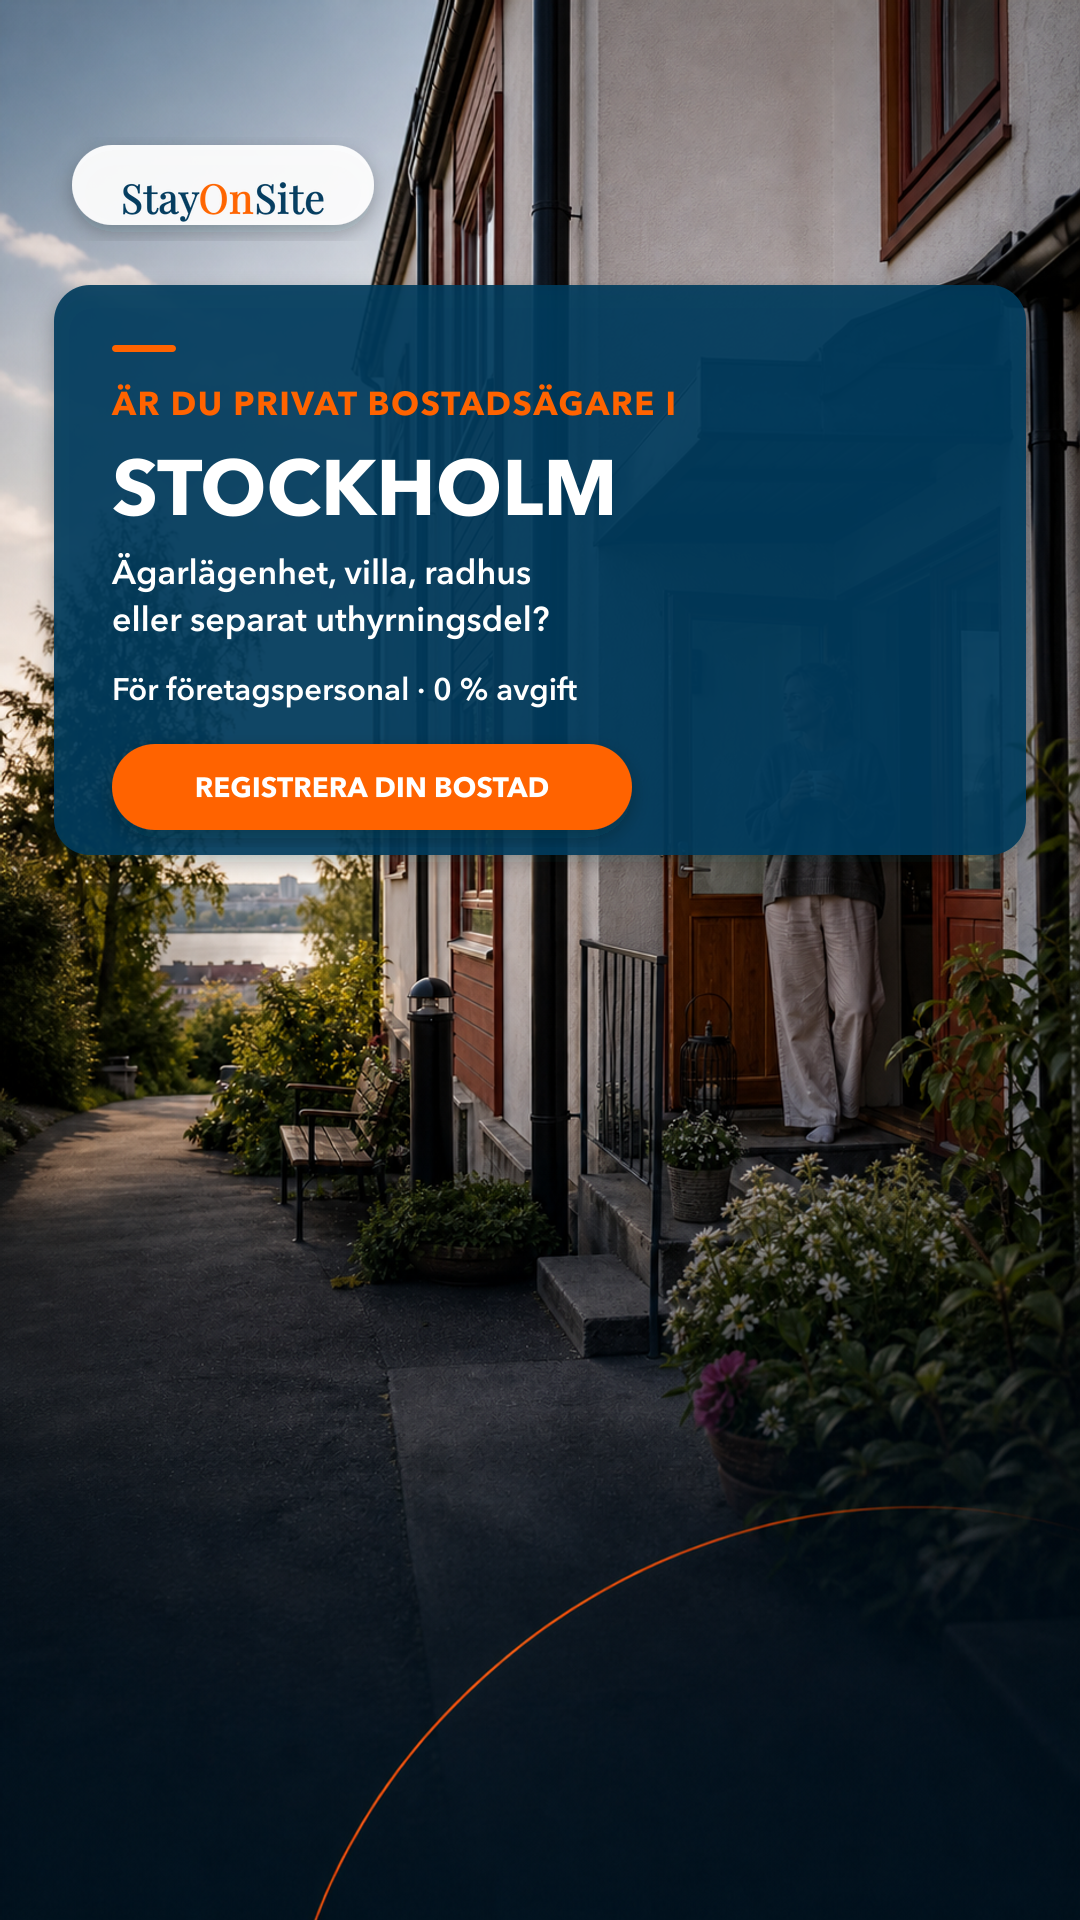
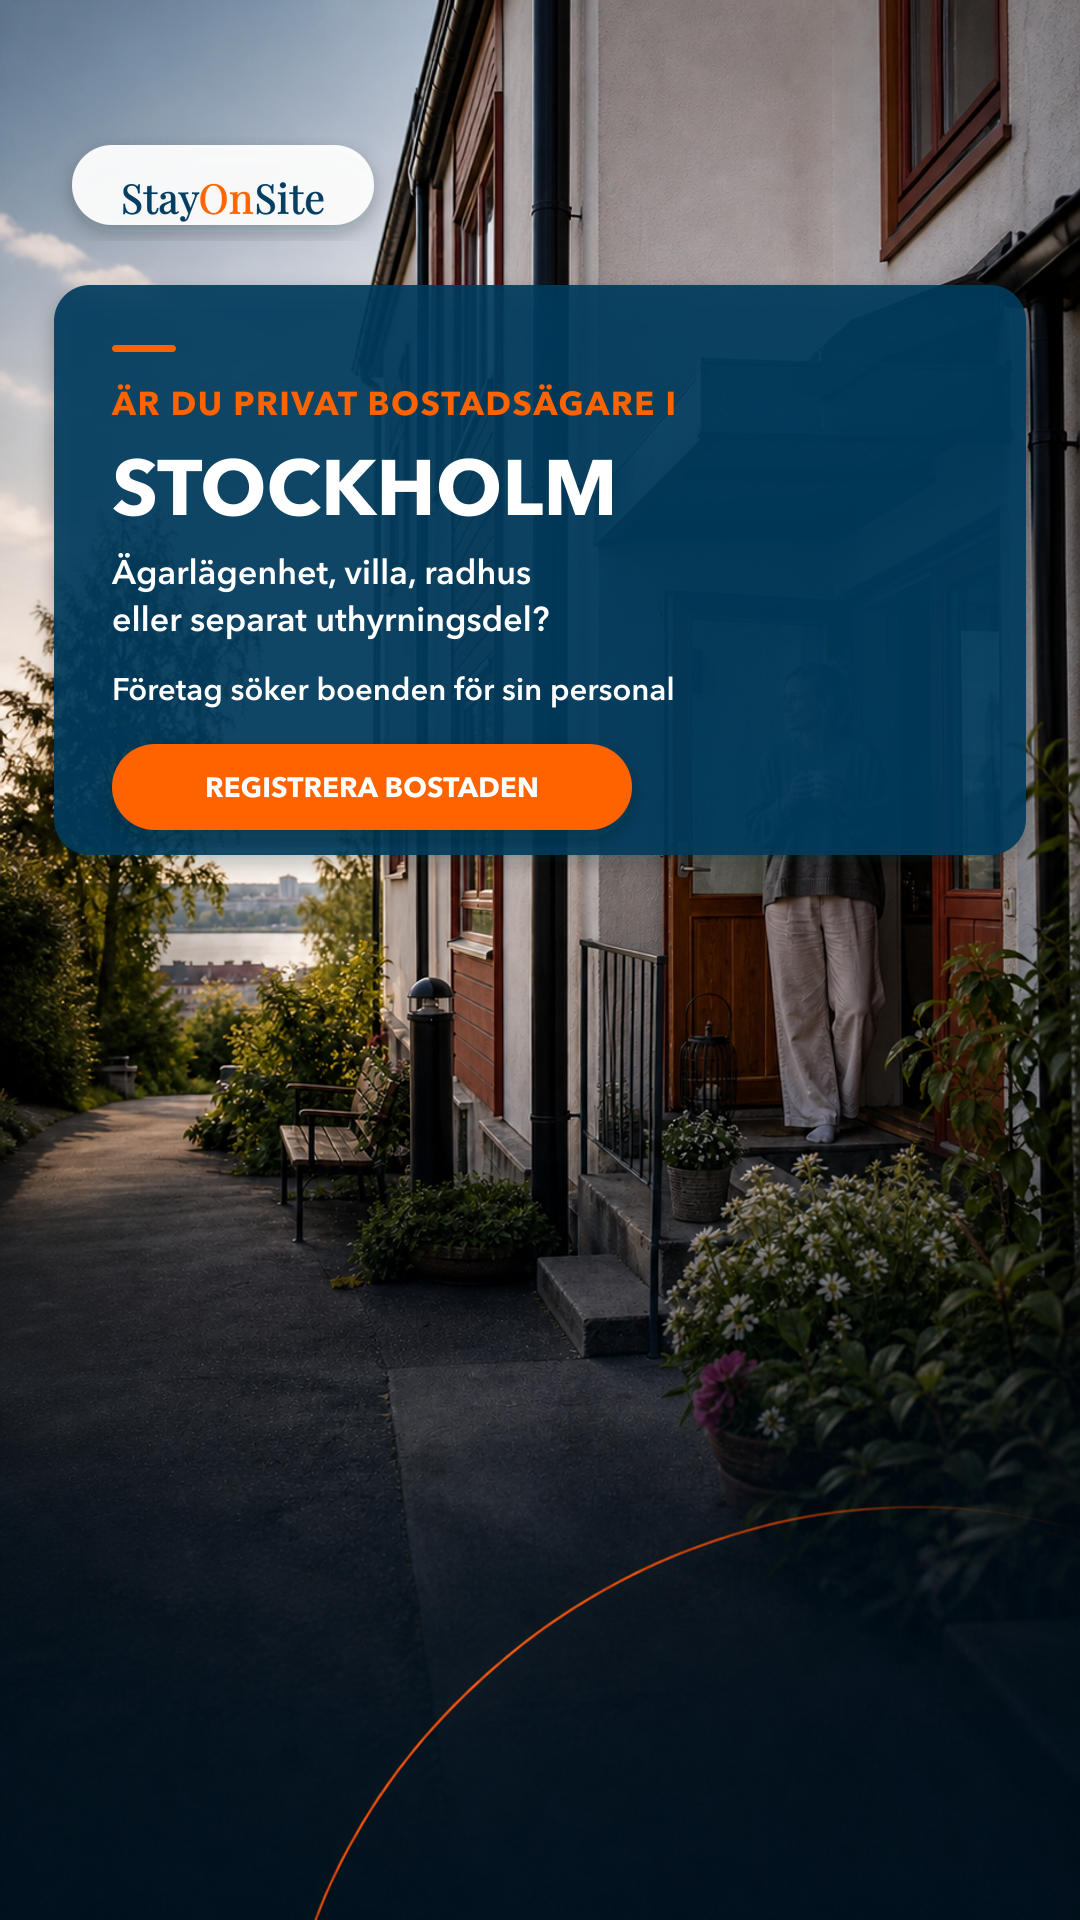
feat(ads): route homeowner campaigns to property intake

Changed region(s): [[0.1528, 0.3438, 0.6111, 0.375], [0.1833, 0.4062, 0.5194, 0.4375]]

diff --git a/app/api/crm/property-intake/route.ts b/app/api/crm/property-intake/route.ts
@@ -12,6 +12,7 @@ import { R2_BUCKET, r2 } from "@/lib/crm/r2";
 import { outboxMessages, propertyImages } from "@/lib/crm/schema";
 import { ensureShareLink } from "@/lib/crm/share-links";
 import { intakeConfirmSms } from "@/lib/crm/sms-templates";
+import { sendMetaLeadEvent } from "@/lib/meta-conversions";
 
 export const runtime = "nodejs";
 export const dynamic = "force-dynamic";
@@ -227,6 +228,36 @@ export async function POST(req: NextRequest) {
         console.error("Intake confirmation SMS queue failed", error);
       }
     }
+
+    // Skicka samma Lead-händelse som webbläsaren med identiskt event-id så att
+    // Meta kan deduplicera Pixel och Conversions API. Mätningen får aldrig
+    // påverka själva bostadsregistreringen.
+    const forwarded = req.headers.get("x-forwarded-for");
+    const ip = forwarded ? forwarded.split(",")[0]?.trim() : undefined;
+    const metaTracking = parsed.data.tracking?.consent
+      ? {
+          consent: true as const,
+          eventId: parsed.data.tracking.eventId,
+          eventSourceUrl: parsed.data.tracking.eventSourceUrl,
+          fbc: parsed.data.tracking.fbc,
+          fbp: parsed.data.tracking.fbp,
+        }
+      : undefined;
+
+    await sendMetaLeadEvent(
+      {
+        formType: "property-intake",
+        fields: {
+          name: parsed.data.ownerName,
+          email: parsed.data.ownerEmail ?? "",
+          phone: parsed.data.ownerPhone,
+          city: parsed.data.city,
+          postalCode: parsed.data.postalCode,
+        },
+        tracking: metaTracking,
+      },
+      { ip, userAgent: req.headers.get("user-agent") ?? undefined },
+    ).catch((error) => console.error("Property intake Meta CAPI event failed", error));
 
     return NextResponse.json({
       success: true,

diff --git a/src/components/homeowner/PropertyIntakeForm.tsx b/src/components/homeowner/PropertyIntakeForm.tsx
@@ -14,6 +14,7 @@ import { useUtmCapture } from "@/hooks/use-utm-capture";
 import { isValidEmail, isValidPhoneNumber } from "@/lib/contact";
 import { UTHYRNINGSUPPDRAG } from "@/lib/crm/avtal";
 import { compressImage } from "@/lib/image-compress";
+import { getMetaTrackingContext, trackMetaEvent } from "@/lib/meta-pixel";
 import { cn } from "@/lib/utils";
 
 type IntakeFormState = {
@@ -464,8 +465,12 @@ export function PropertyIntakeForm() {
     setIsSubmitting(true);
     setSubmitError("");
     try {
+      const tracking = getMetaTrackingContext("Lead");
       const body = new FormData();
-      body.append("payload", JSON.stringify(payload()));
+      body.append("payload", JSON.stringify({
+        ...payload(),
+        ...(tracking ? { tracking } : {}),
+      }));
       const response = await fetch("/api/crm/property-intake", { method: "POST", body });
       const result = await response.json().catch(() => null) as {
         success?: boolean;
@@ -478,6 +483,13 @@ export function PropertyIntakeForm() {
 
       if (!response.ok || !result?.success || !result.propertyId) {
         throw new Error(result?.error ?? "property_intake_failed");
+      }
+
+      if (tracking) {
+        trackMetaEvent("Lead", {
+          content_category: "homeowner",
+          content_name: "property-intake",
+        }, tracking.eventId);
       }
 
       const uploaded = await uploadImages(result.propertyId, result.agreement?.token ?? null);

diff --git a/src/lib/meta-conversions.ts b/src/lib/meta-conversions.ts
@@ -47,6 +47,10 @@ function hashedList(value?: string): string[] | undefined {
   return value ? [sha256(value)] : undefined
 }
 
+function isHomeownerForm(formType: string): boolean {
+  return formType.includes('homeowner') || formType === 'property-intake'
+}
+
 export function buildMetaLeadEvent(
   submission: MetaLeadSubmission,
   context: MetaLeadRequestContext,
@@ -84,7 +88,7 @@ export function buildMetaLeadEvent(
       ...(submission.tracking.fbp ? { fbp: submission.tracking.fbp } : {}),
     },
     custom_data: {
-      content_category: submission.formType.includes('homeowner') ? 'homeowner' : 'corporate',
+      content_category: isHomeownerForm(submission.formType) ? 'homeowner' : 'corporate',
       content_name: submission.formType,
     },
   }

diff --git a/src/lib/meta-conversions.test.ts b/src/lib/meta-conversions.test.ts
@@ -58,4 +58,29 @@ describe('buildMetaLeadEvent', () => {
       fbp: 'fb.1.123.example',
     })
   })
+
+  it('classifies the complete property intake as a homeowner lead', () => {
+    const event = buildMetaLeadEvent(
+      {
+        formType: 'property-intake',
+        fields: {
+          name: 'Testperson',
+          phone: '0701234567',
+          city: 'Kiruna',
+          postalCode: '981 31',
+        },
+        tracking: {
+          consent: true,
+          eventId: 'lead-property-intake-123',
+          eventSourceUrl: 'https://www.stayonsite.se/registrera-bostad',
+        },
+      },
+      {},
+    )
+
+    expect(event?.custom_data).toEqual({
+      content_category: 'homeowner',
+      content_name: 'property-intake',
+    })
+  })
 })

diff --git a/src/lib/crm/property-intake.ts b/src/lib/crm/property-intake.ts
@@ -110,6 +110,13 @@ export const propertyIntakeSchema = z
     startedAt: z.number().int().positive().optional().nullable(),
     website: z.string().trim().max(200).optional().nullable(),
     utmParams: z.record(z.string(), z.string()).optional().nullable(),
+    tracking: z.object({
+      consent: z.literal(true),
+      eventId: z.string().min(8).max(100),
+      eventSourceUrl: z.string().url().max(1000),
+      fbc: z.string().max(255).optional(),
+      fbp: z.string().max(255).optional(),
+    }).optional(),
     consent: z.literal(true),
   })
   .superRefine((input, ctx) => {

diff --git a/ADS-STRATEGY.md b/ADS-STRATEGY.md
@@ -14,7 +14,7 @@ Behåll ett Meta-annonskonto men dela verksamheten i två tydliga kampanjfamilje
 
 | Del | Status | Målgrupp | Konvertering | Landningssida |
 |---|---|---|---|---|
-| Bostadsägare / utbud | Aktiv nu | Privatpersoner som äger bostad | Godkänd formulärregistrering | `/lp/husagare` |
+| Bostadsägare / utbud | Aktiv nu | Privatpersoner som äger bostad | Slutförd bostadsregistrering | `/registrera-bostad` |
 | Företagskunder / efterfrågan | Förbereds, ej aktiv | Företag som behöver personalboende | Projektförfrågan | Separat företags-LP |
 
 Samma Pixel och framtida Conversions API kan användas, men kampanjer, annonser, mål och CRM-status ska hållas separata.
@@ -23,7 +23,7 @@ Samma Pixel och framtida Conversions API kan användas, men kampanjer, annonser,
 
 ### Huvudlöfte
 
-> Privat bostadsägare? Hyr ut ditt boende för företagspersonal – utan avgifter.
+> Få betalt när företag hyr ditt boende.
 
 ### Förtydligande
 
@@ -31,7 +31,7 @@ Samma Pixel och framtida Conversions API kan användas, men kampanjer, annonser,
 - Prioriterade objekt är ägarlägenheter, villor, radhus och separata uthyrningsdelar.
 - Bostadsrätter är relevanta när andrahandsuthyrningen är godkänd av föreningen eller Hyresnämnden. Formulera aldrig annonsen som att ägaren kan hoppa över ett tillstånd som krävs.
 - Bostaden ägs och registreras av en privatperson; den används som boende av företagspersonal.
-- Bostadsägaren betalar ingen avgift till StayOnSite.
+- Registreringen är kostnadsfri och inte bindande; det används som stödargument, inte som huvudbudskap.
 - Registreringen är första steget; matchning och villkor bekräftas innan avtal.
 
 ### CTA
@@ -81,29 +81,22 @@ Göteborg och Stockholm hålls i en separat uppsättning. De ger större räckvi
 ## Kreativa hypoteser
 
 1. **Privatägare → företagspersonal:** Privatpersonen äger och registrerar bostaden; företagspersonal använder den som boende.
-2. **0 % avgift:** Bostadsägaren betalar ingen avgift till StayOnSite.
+2. **Få betalt:** Bostadsägaren får betalt när ett företag hyr bostaden.
 3. **Vi söker i din stad:** Konkret efterfrågan i de städer där StayOnSite behöver fler boenden.
 
 Varje hypotes får både 4:5 och 9:16. Kör dem samtidigt; låt resultatet avgöra vinnare.
 
 ## Landningssida
 
-Rekommenderad destination är `https://www.stayonsite.se/lp/husagare` eftersom den redan:
+Rekommenderad destination är `https://www.stayonsite.se/registrera-bostad` eftersom den:
 
 - laddar Meta Pixel när miljövariabeln finns;
 - skickar `Lead` efter godkänt formulär;
 - sparar UTM-parametrar och `fbclid`;
-- skapar ett `lp-homeowner`-lead i CRM.
+- skapar bostaden direkt i CRM;
+- skickar samma `Lead` från Pixel och Conversions API med gemensamt `event_id`.
 
-Före lansering behöver första skärmen justeras så att den matchar annonsen. Nuvarande huvudbudskap “Tjäna 10 000–30 000 kr/mån” och “gratis intäktsbedömning” bör ersättas eller kompletteras med:
-
-- “Privat bostadsägare? Hyr ut för företagspersonal – utan avgifter”;
-- “Du äger bostaden. Boendet används av företagspersonal”;
-- CTA “Registrera din bostad”.
-
-Det minskar avhopp, gör erbjudandet mer trovärdigt och ger Meta renare konverteringsdata.
-
-Formuläret bör dessutom fråga efter bostadstyp och, för bostadsrätt, om tillstånd för andrahandsuthyrning redan finns. Det gör att CRM kan skilja vanliga klickleads från matchningsbara bostäder och senare ge Meta en bättre kvalitetssignal.
+Sidan är ett sexstegsformulär för kontakt, adress, bostad, utrustning, hyra och bilder. CTA och annonscopy ska därför alltid lova just **registrering av bostaden**, inte en snabb intäktsbedömning eller ett kort intresseformulär.
 
 ## Beslutsregler efter lansering
 

diff --git a/META-LAUNCH-DRAFT.md b/META-LAUNCH-DRAFT.md
@@ -1,0 +1,74 @@
+# Meta-lansering: bostadsägare
+
+**Status:** Förbereds som utkast – får inte publiceras utan Kajsas slutgodkännande  
+**Destination:** `https://www.stayonsite.se/registrera-bostad`  
+**Mål:** Slutförd bostadsregistrering (`Lead`)  
+**Målgrupp:** Privatpersoner med villa, radhus, ägarlägenhet, separat uthyrningsdel eller bostadsrätt där uthyrning är tillåten  
+**Slutkund:** Endast företag; bostaden används av deras personal
+
+## Kampanjinställningar
+
+- Kampanjmål: Leads
+- Konverteringsplats: Webbplats
+- Specialkategori: Bostäder
+- Konverteringshändelse: Lead
+- Budgetförslag: 300 kr per dag i 14 dagar
+- Struktur: en kampanj, en annonsuppsättning, fyra annonser
+- Placeringar: Advantage+
+- Budstrategi: högsta volym/lägsta kostnad
+- Status: utkast/avstängd fram till manuell publicering
+- Första geografi: Sunne, Arvika och Charlottenberg enligt aktuell efterfrågan
+
+## Gemensamt
+
+**CTA-knapp:** Registrera dig  
+**URL-parametrar:** `utm_source=meta&utm_medium=paid_social&utm_campaign=uthyrare_varmland_sep2026`
+
+Registreringen är kostnadsfri och inte bindande. Det är ett stödargument, inte huvudbudskapet. Annonserna lovar inte viss hyra, beläggning, hyrestid eller garanterad uthyrning.
+
+## Annons 1 – Villa
+
+**Namn:** Uthyrare | Villa | Få betalt  
+**Primärtext:** Har du en möblerad villa i Sunne, Arvika eller Charlottenberg? Företag söker boende åt sin personal. Du får betalt när bostaden hyrs ut. Registrera bostaden – kostnadsfritt och utan bindning.  
+**Rubrik:** Företag söker villor  
+**Beskrivning:** Registrera din bostad  
+**Bild:** `ad-assets/meta/property-types/villa/feed-1080x1350.png`  
+**Vertikal bild:** `ad-assets/meta/property-types/villa/vertical-1080x1920.png`  
+**UTM content:** `villa`
+
+## Annons 2 – Radhus
+
+**Namn:** Uthyrare | Radhus | Få betalt  
+**Primärtext:** Äger du ett möblerat radhus i Sunne, Arvika eller Charlottenberg? StayOnSite hyr bara ut till företag. Du får betalt när bostaden hyrs ut. Registreringen är kostnadsfri och inte bindande.  
+**Rubrik:** Hyr ut ditt radhus till företag  
+**Beskrivning:** Registrera din bostad  
+**Bild:** `ad-assets/meta/property-types/radhus/feed-1080x1350.png`  
+**Vertikal bild:** `ad-assets/meta/property-types/radhus/vertical-1080x1920.png`  
+**UTM content:** `radhus`
+
+## Annons 3 – Flera bostadstyper
+
+**Namn:** Uthyrare | Bostadstyper | Företag  
+**Primärtext:** Villa, radhus, ägarlägenhet eller separat uthyrningsdel? Vi söker boenden för företag och deras personal i Sunne, Arvika och Charlottenberg. Registrera bostaden så återkommer vi när den passar ett behov.  
+**Rubrik:** Har du ett boende att hyra ut?  
+**Beskrivning:** Endast företagsuthyrning  
+**Bild:** `ad-assets/meta/company-only/feed-1080x1350.png`  
+**Vertikal bild:** `ad-assets/meta/company-only/vertical-1080x1920.png`  
+**UTM content:** `bostadstyper`
+
+## Annons 4 – Aktiv lokal efterfrågan
+
+**Namn:** Uthyrare | Lokal efterfrågan | Värmland  
+**Primärtext:** Företag söker möblerade boenden i Sunne, Arvika och Charlottenberg. Har du en bostad med ledig kapacitet? Registrera den så gör vi en första bedömning.  
+**Rubrik:** Företag söker boenden lokalt  
+**Beskrivning:** Kostnadsfri registrering  
+**Bild:** `ad-assets/meta/zero-fee/feed-1080x1350.png`  
+**Vertikal bild:** `ad-assets/meta/zero-fee/vertical-1080x1920.png`  
+**UTM content:** `lokal_efterfragan`
+
+## Mätning
+
+- PageView skickas efter cookiesamtycke.
+- Slutförd `/registrera-bostad` skickar samma `Lead`-händelse från Pixel och Conversions API med gemensamt `event_id` för deduplicering.
+- Primärt verksamhetsmått: kostnad per verifierad, användbar bostad – inte bara kostnad per Lead.
+
